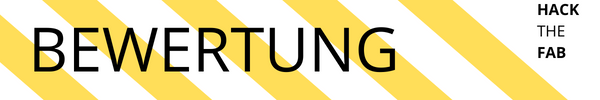
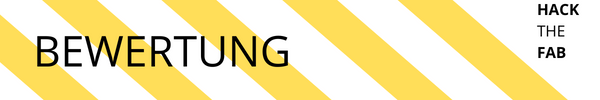
Changed README.md

Changed region(s): [[0.03, 0.27, 0.66, 0.72]]

diff --git a/README.md b/README.md
@@ -1,4 +1,4 @@
-![](./src/HACK THE FAB-2.png)
+![](./src/logo.png)
 
 #### Welche Rolle spielt Cyber-Sicherheit in der vernetzten Fabrik?
 
@@ -52,16 +52,16 @@ Ziel der **CODER CHALLENGE** ist es den unverschlüsselten Verkehr abzusichern u
    
 + Die **Kommunikation ist aktuell unverschlüsselt** und es gibt keine sichere Authentisierung
 
-+ OPC UA und MQTT bieten verschiedene Mechanismen für eine sichere Authentisierung und Verschlüsselung. 
++ OPC UA und MQTT bieten verschiedene Mechanismen für eine sichere Authentisierung und Verschlüsselung. Weitere Details zu OPC UA und MQTT findet ihr [hier](protocols.md)
 
-+ Welche Mechanismen ihr testet und implementiert ist **euch überlassen**
++ Welche Mechanismen ihr testet und implementiert ist **euch überlassen**. 
 
 
 ![](./src/sponsors.png)
 
 ![](./src/sponsors_detail.png)
 
-## Wichtige Daten 🗓
+![](./src/daten.png)
 
  * [Anmeldung]() bis zum 15. Juni
 
@@ -119,5 +119,5 @@ Die Teams sollten sich bemühen, innerhalb der vorgegebenen Zeit eine möglichst
 
 _____________
 
-🎉 🎊 😃 Happy Contributing 😃 🎊 🎉
+![](./src/happy_contributing.png)
     
